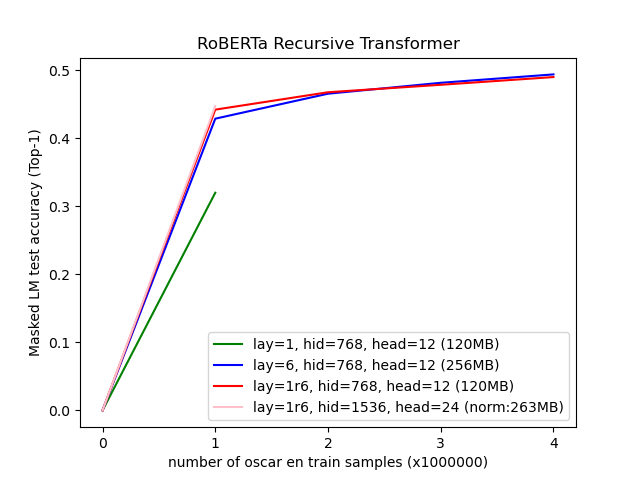
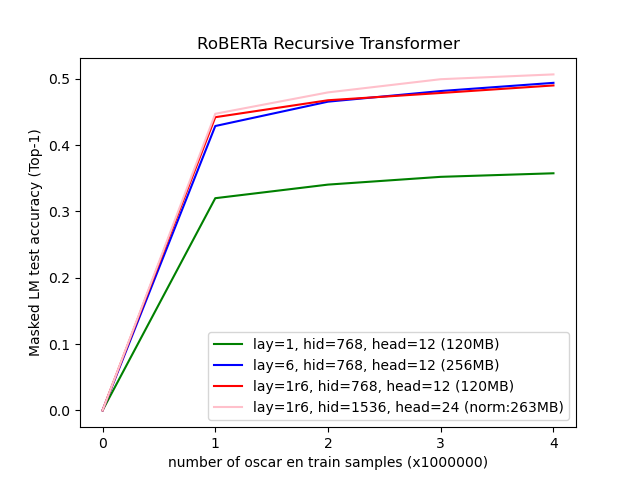
update RobertaRecursiveTransformer graph

diff --git a/graph/RobertaRecursiveTransformer.py b/graph/RobertaRecursiveTransformer.py
@@ -2,10 +2,10 @@ import matplotlib.pyplot as plt
 import numpy as np
 
 x = np.array([0, 1, 2, 3, 4])
-y1 = np.array([0, 0.3200524007320404, np.nan, np.nan, np.nan])
+y1 = np.array([0, 0.3200524007320404, 0.3405463897109032, 0.3522671243667603, 0.35763392360210416])
 y2 = np.array([0, 0.42890446846485136, 0.4656440287351608, 0.48165937175750734, 0.4940115956068039])
 y3 = np.array([0, 0.44220867459774016, 0.4677618439912796, 0.4787390529155731, 0.49010481104850767])
-y4 = np.array([0, 0.4473719531536102, np.nan, np.nan, np.nan])
+y4 = np.array([0, 0.4473719531536102, 0.47961312062740324, 0.49951700699329377, 0.5067597522258759])
 
 l1, = plt.plot(x, y1, color='green', label='lay=1, hid=768, head=12 (120MB)')
 l2, = plt.plot(x, y2, color='blue', label='lay=6, hid=768, head=12 (256MB)')
